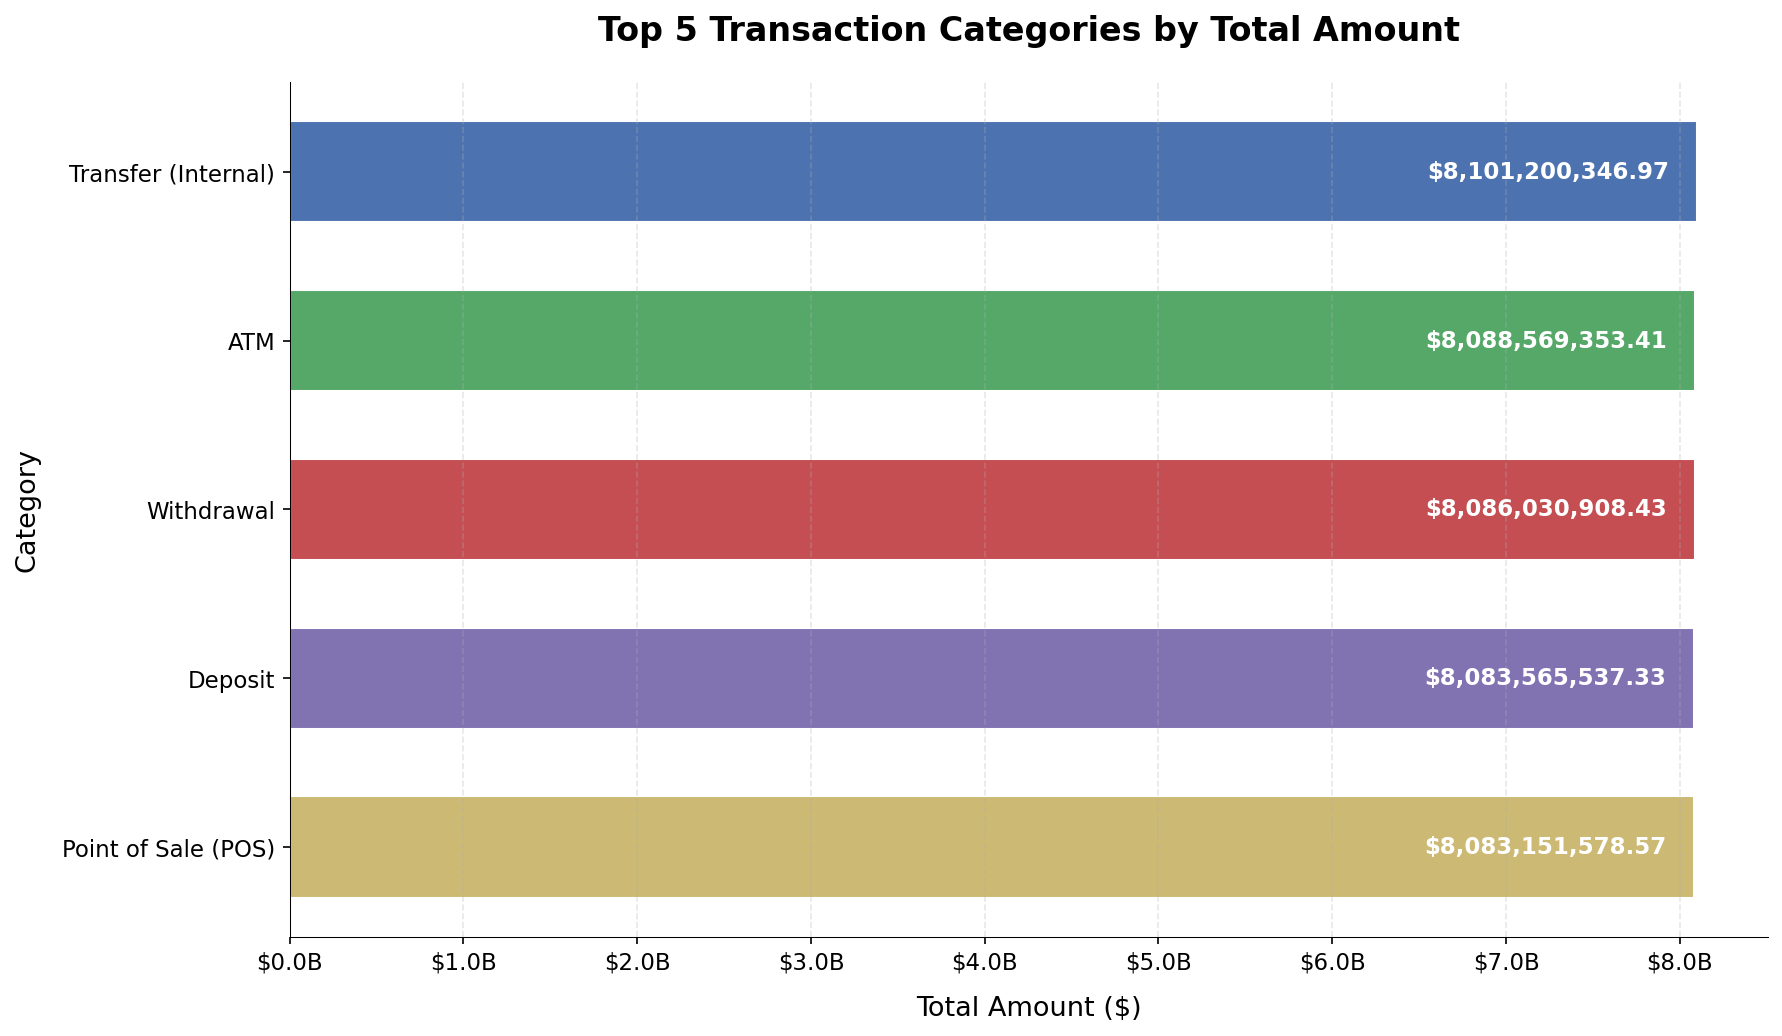
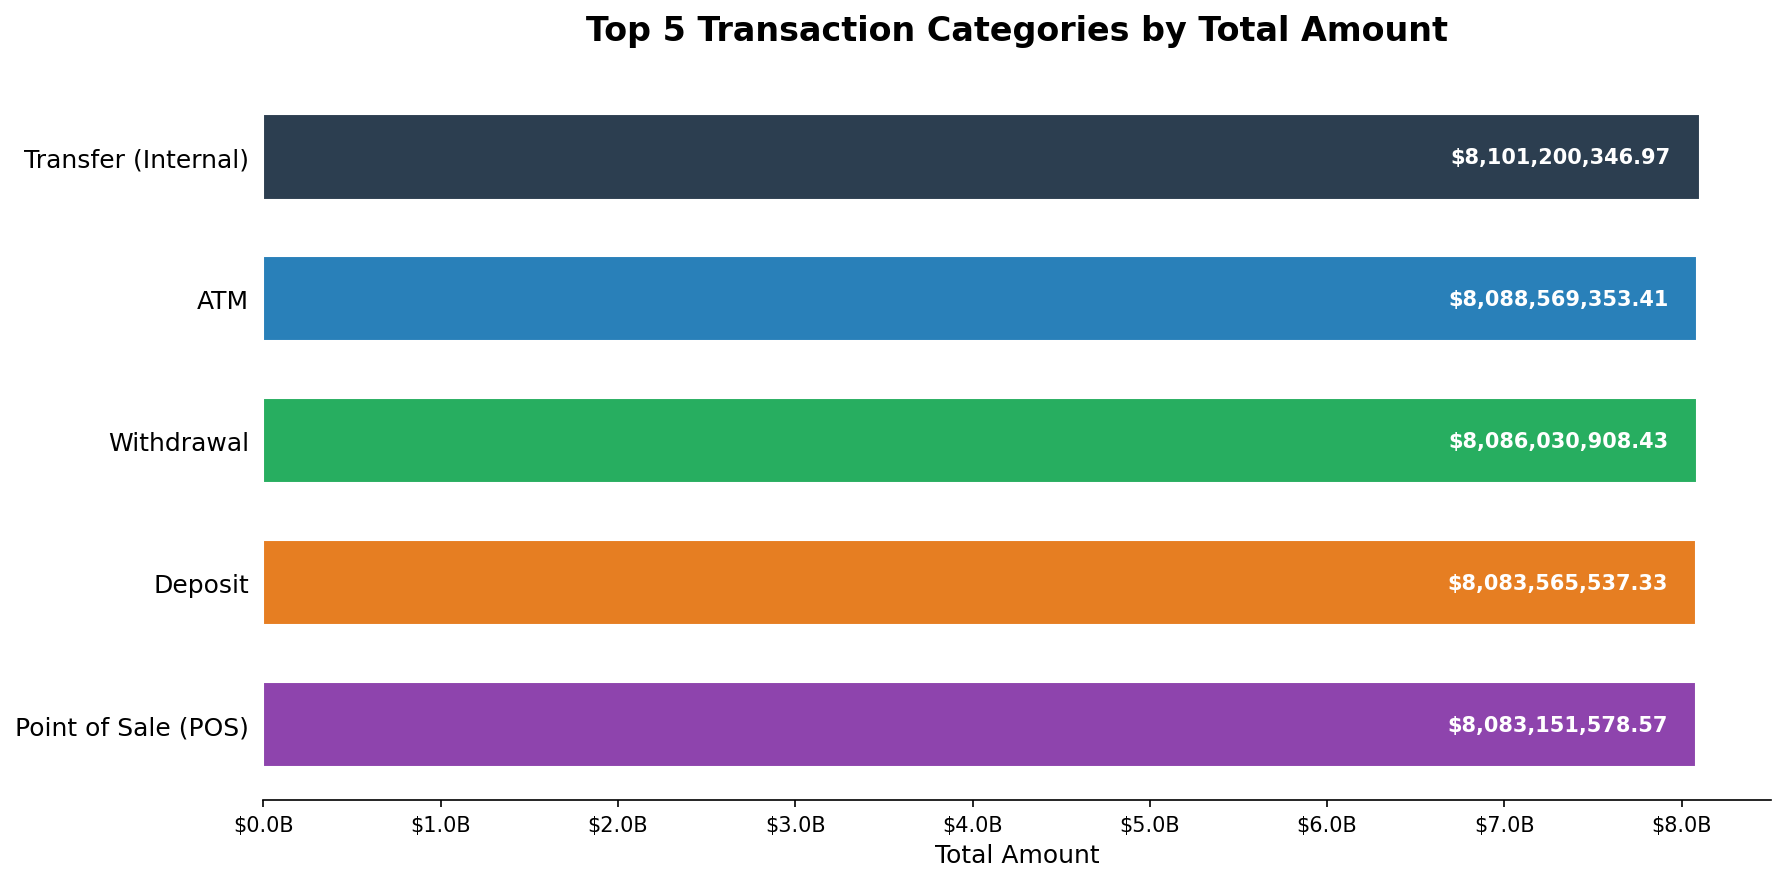
Phase 4: Guardian telemetry logging wired to run_uuid - full closed loop complete

diff --git a/src/guardian/auditor.py b/src/guardian/auditor.py
@@ -3,7 +3,7 @@ import sys
 import json
 import base64
 from pathlib import Path
-from typing import Literal, cast
+from typing import Optional, cast
 from anthropic import Anthropic
 from anthropic.types.base64_image_source_param import Base64ImageSourceParam
 from anthropic.types.image_block_param import ImageBlockParam
@@ -11,6 +11,12 @@ from anthropic.types.text_block_param import TextBlockParam
 from anthropic.types.text_block import TextBlock
 from anthropic.types.thinking_block import ThinkingBlock
 from dotenv import load_dotenv
+
+ROOT_DIR = Path(__file__).resolve().parents[2]
+if str(ROOT_DIR) not in sys.path:
+    sys.path.insert(0, str(ROOT_DIR))
+
+from src.execution.telemetry import log_guardian_audit
 
 load_dotenv()
 
@@ -51,9 +57,8 @@ Respond ONLY with valid JSON:
 def load_image_as_base64(filepath: str) -> tuple[str, str]:
     """Load an image file and return base64 encoded string with media type."""
     path = Path(filepath)
-    
+
     ext = path.suffix.lower()
-    media_type_map: dict[str, Literal["image/png", "image/jpeg", "image/gif", "image/webp"]]
     media_type_map = {
         ".png": "image/png",
         ".jpg": "image/jpeg",
@@ -61,29 +66,28 @@ def load_image_as_base64(filepath: str) -> tuple[str, str]:
         ".gif": "image/gif",
         ".webp": "image/webp"
     }
-    media_type = media_type_map.get(ext)
-    if media_type is None:
-        media_type = "image/png"
-    
+    media_type = media_type_map.get(ext, "image/png")
+
     with open(filepath, "rb") as f:
         image_data = base64.standard_b64encode(f.read()).decode("utf-8")
-    
+
     return image_data, media_type
 
 
 def audit_chart(
     filepath: str,
     step_context: str,
-    pipeline_goal: str
+    pipeline_goal: str,
+    run_uuid: Optional[str] = None
 ) -> dict:
     """
     Send a chart to Claude Vision for quality audit.
-    Returns structured audit result.
+    Logs result to telemetry if run_uuid provided.
     """
     print(f"\n👁  Guardian auditing: {filepath}")
-    
+
     if not os.path.exists(filepath):
-        return {
+        audit = {
             "verdict": "FAIL",
             "confidence": 1.0,
             "findings": {},
@@ -91,9 +95,20 @@ def audit_chart(
             "recommendation": "Pipeline output is missing — do not deploy.",
             "metrics_extracted": {}
         }
-    
+        if run_uuid:
+            log_guardian_audit(
+                run_uuid=run_uuid,
+                chart_filepath=filepath,
+                verdict="FAIL",
+                confidence=1.0,
+                findings={},
+                issues=[f"File not found: {filepath}"],
+                deploy_approved=False
+            )
+        return audit
+
     image_data, media_type = load_image_as_base64(filepath)
-    
+
     prompt = f"""Audit this pipeline output chart.
 
 Pipeline goal: {pipeline_goal}
@@ -102,19 +117,18 @@ File: {filepath}
 
 Inspect the chart carefully and provide your audit verdict."""
 
-    media_type_literal = cast(Literal["image/png", "image/jpeg", "image/gif", "image/webp"], media_type)
-    image_source: Base64ImageSourceParam = {
+    image_source = cast(Base64ImageSourceParam, {
         "type": "base64",
-        "media_type": media_type_literal,
+        "media_type": media_type,
         "data": image_data,
-    }
+    })
     image_block: ImageBlockParam = {
         "type": "image",
         "source": image_source,
     }
     text_block: TextBlockParam = {
         "type": "text",
-        "text": prompt
+        "text": prompt,
     }
 
     response = client.messages.create(
@@ -149,10 +163,24 @@ Inspect the chart carefully and provide your audit verdict."""
         icon = "✅" if verdict == "PASS" else "❌"
         print(f"     {icon} Verdict: {verdict} (confidence: {confidence:.0%})")
         print(f"     → {audit.get('recommendation', '')}")
+
+        # Log to telemetry
+        if run_uuid:
+            log_guardian_audit(
+                run_uuid=run_uuid,
+                chart_filepath=filepath,
+                verdict=verdict,
+                confidence=confidence,
+                findings=audit.get("findings", {}),
+                issues=audit.get("issues", []),
+                deploy_approved=(verdict == "PASS")
+            )
+
         return audit
+
     except json.JSONDecodeError as e:
         print(f"     ✗ Failed to parse audit: {e}")
-        return {
+        audit = {
             "verdict": "FAIL",
             "confidence": 0.5,
             "findings": {},
@@ -161,47 +189,60 @@ Inspect the chart carefully and provide your audit verdict."""
             "metrics_extracted": {},
             "raw": raw
         }
+        if run_uuid:
+            log_guardian_audit(
+                run_uuid=run_uuid,
+                chart_filepath=filepath,
+                verdict="FAIL",
+                confidence=0.5,
+                findings={},
+                issues=[f"Audit parsing failed: {str(e)}"],
+                deploy_approved=False
+            )
+        return audit
 
 
 def audit_pipeline_outputs(
     results: dict,
     plan: dict,
-    pipeline_goal: str
+    pipeline_goal: str,
+    run_uuid: Optional[str] = None
 ) -> dict:
     """
     Scan all pipeline results for chart outputs and audit each one.
     Returns a guardian report with overall deployment decision.
     """
     print(f"\n🛡  Multimodal Guardian — auditing pipeline outputs...")
-    
+
     audits = {}
     chart_extensions = {".png", ".jpg", ".jpeg", ".gif", ".webp"}
-    
-    # Find all chart outputs across results
+    seen_files = set()
+
+    # Find chart outputs from step results
     for step_id, result in results.items():
         if result.get("status") != "success":
             continue
-        
-        # Check for file paths in result
+
         for key, value in result.items():
             if isinstance(value, str) and any(value.endswith(ext) for ext in chart_extensions):
-                if os.path.exists(value):
-                    # Find step context
+                if os.path.exists(value) and value not in seen_files:
+                    seen_files.add(value)
                     step_context = next(
                         (s["task"] for s in plan["steps"] if s["id"] == step_id),
                         step_id
                     )
-                    audit = audit_chart(value, step_context, pipeline_goal)
+                    audit = audit_chart(value, step_context, pipeline_goal, run_uuid)
                     audits[value] = audit
 
-    # Also scan outputs directory for any charts
+    # Scan outputs directory for any missed charts
     outputs_dir = Path("outputs")
     if outputs_dir.exists():
         for chart_file in outputs_dir.glob("*"):
             if chart_file.suffix.lower() in chart_extensions:
                 filepath = str(chart_file)
-                if filepath not in audits:
-                    audit = audit_chart(filepath, "Pipeline output", pipeline_goal)
+                if filepath not in seen_files:
+                    seen_files.add(filepath)
+                    audit = audit_chart(filepath, "Pipeline output", pipeline_goal, run_uuid)
                     audits[filepath] = audit
 
     # Overall deployment decision
@@ -222,7 +263,8 @@ def audit_pipeline_outputs(
         "audits": audits,
         "total_charts": len(audits),
         "passed": sum(1 for a in audits.values() if a.get("verdict") == "PASS"),
-        "pipeline_goal": pipeline_goal
+        "pipeline_goal": pipeline_goal,
+        "run_uuid": run_uuid
     }
 
     icon = "✅" if deploy else "❌"
@@ -240,29 +282,27 @@ def print_guardian_report(report: dict):
     print(f"Deploy approved: {report['deploy_approved']}")
     print(f"Charts audited: {report['total_charts']}")
     print(f"Passed: {report['passed']}/{report['total_charts']}")
-    
+    if report.get("run_uuid"):
+        print(f"Run ID: {report['run_uuid'][:8]}")
+
     for filepath, audit in report["audits"].items():
         print(f"\n  Chart: {filepath}")
         print(f"  Verdict: {audit.get('verdict')} ({audit.get('confidence', 0):.0%} confidence)")
-        
+
         findings = audit.get("findings", {})
         for category, observation in findings.items():
             print(f"  {category}: {observation}")
-        
+
         issues = audit.get("issues", [])
         if issues:
             print(f"  Issues: {', '.join(issues)}")
-        
+
         metrics = audit.get("metrics_extracted", {})
         if metrics:
             print(f"  Extracted metrics: {json.dumps(metrics, indent=4)}")
 
 
 if __name__ == "__main__":
-    root_dir = os.path.dirname(os.path.dirname(os.path.dirname(os.path.abspath(__file__))))
-    if root_dir not in sys.path:
-        sys.path.insert(0, root_dir)
-
     from src.discovery.mcp_server import discover_all_sources
     from src.planner.agent import plan_pipeline, print_plan
     from src.execution.executor import execute_pipeline
@@ -273,7 +313,15 @@ if __name__ == "__main__":
     plan = plan_pipeline(goal, context["summary"])
     print_plan(plan)
 
-    results = execute_pipeline(plan, context["summary"])
+    results, run_uuid = execute_pipeline(plan, context["summary"])
 
-    report = audit_pipeline_outputs(results, plan, goal)
+    report = audit_pipeline_outputs(results, plan, goal, run_uuid)
     print_guardian_report(report)
+
+    # Verify telemetry
+    from src.execution.telemetry import get_pipeline_stats
+    stats = get_pipeline_stats()
+    print(f"\nMLOps Telemetry:")
+    print(f"  Total runs: {stats['overall']['total_runs']}")
+    print(f"  Total repairs: {stats['overall']['total_repairs']}")
+    print(f"  Approved runs: {stats['overall']['approved_runs']}")
